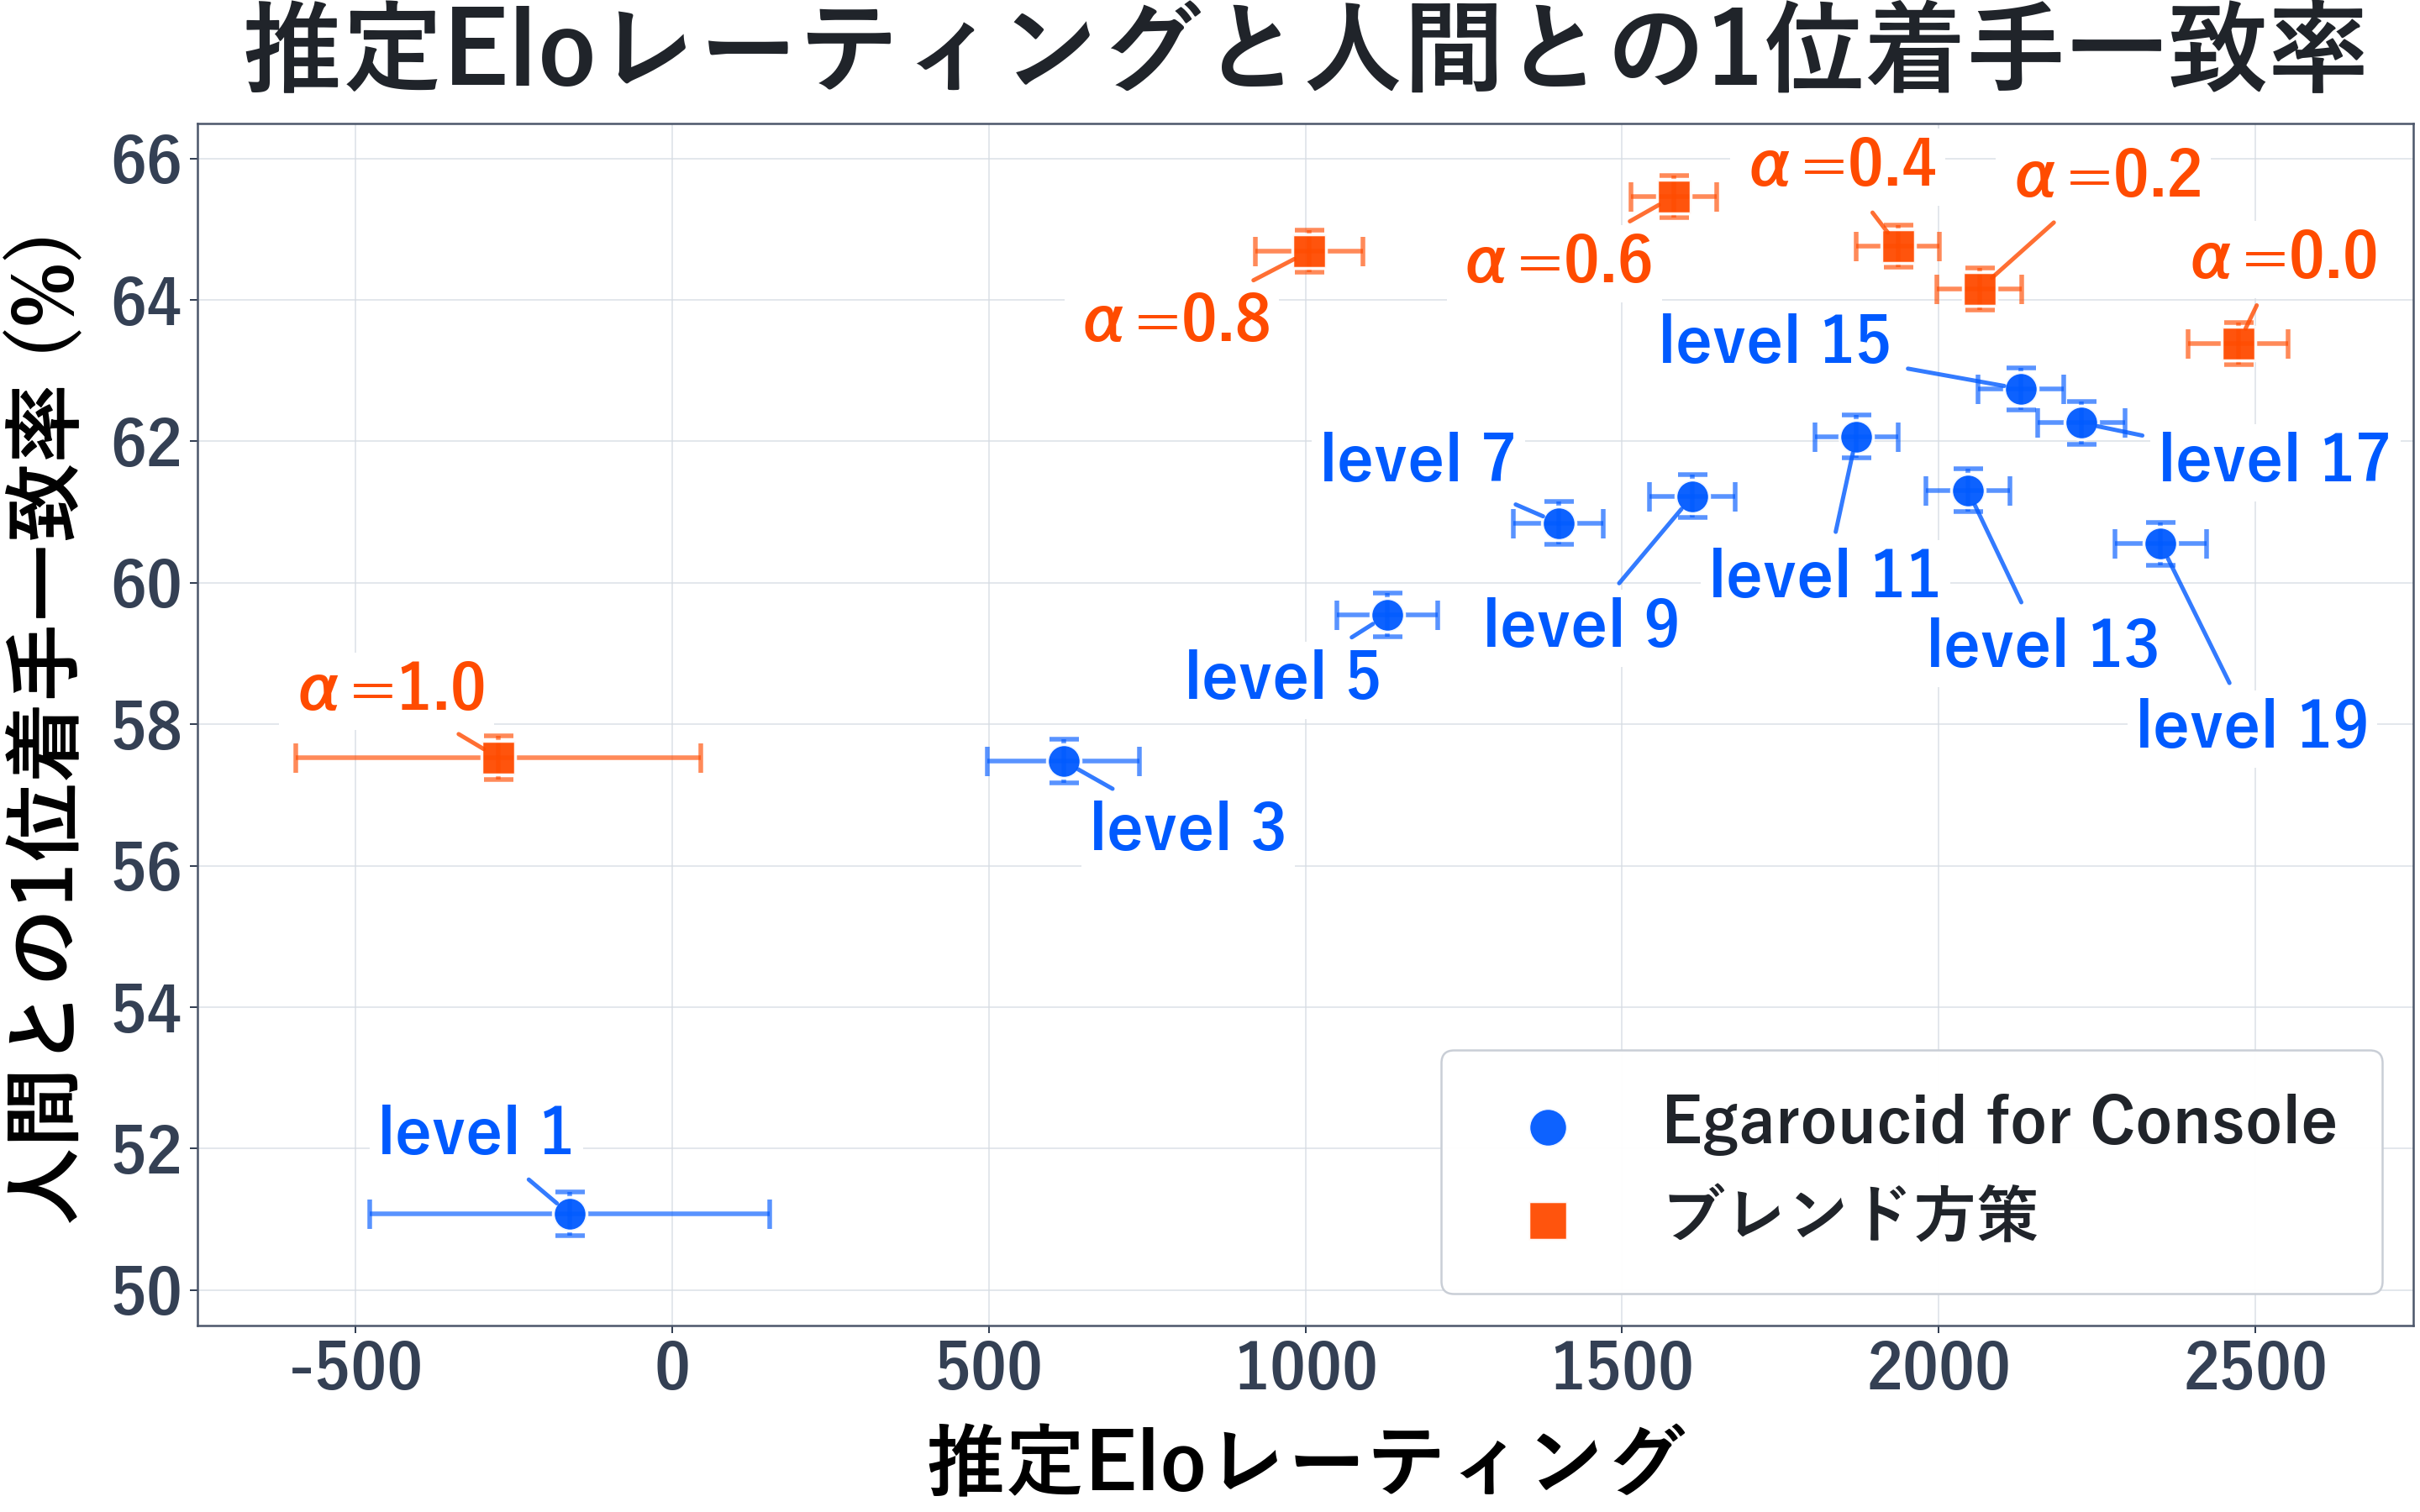
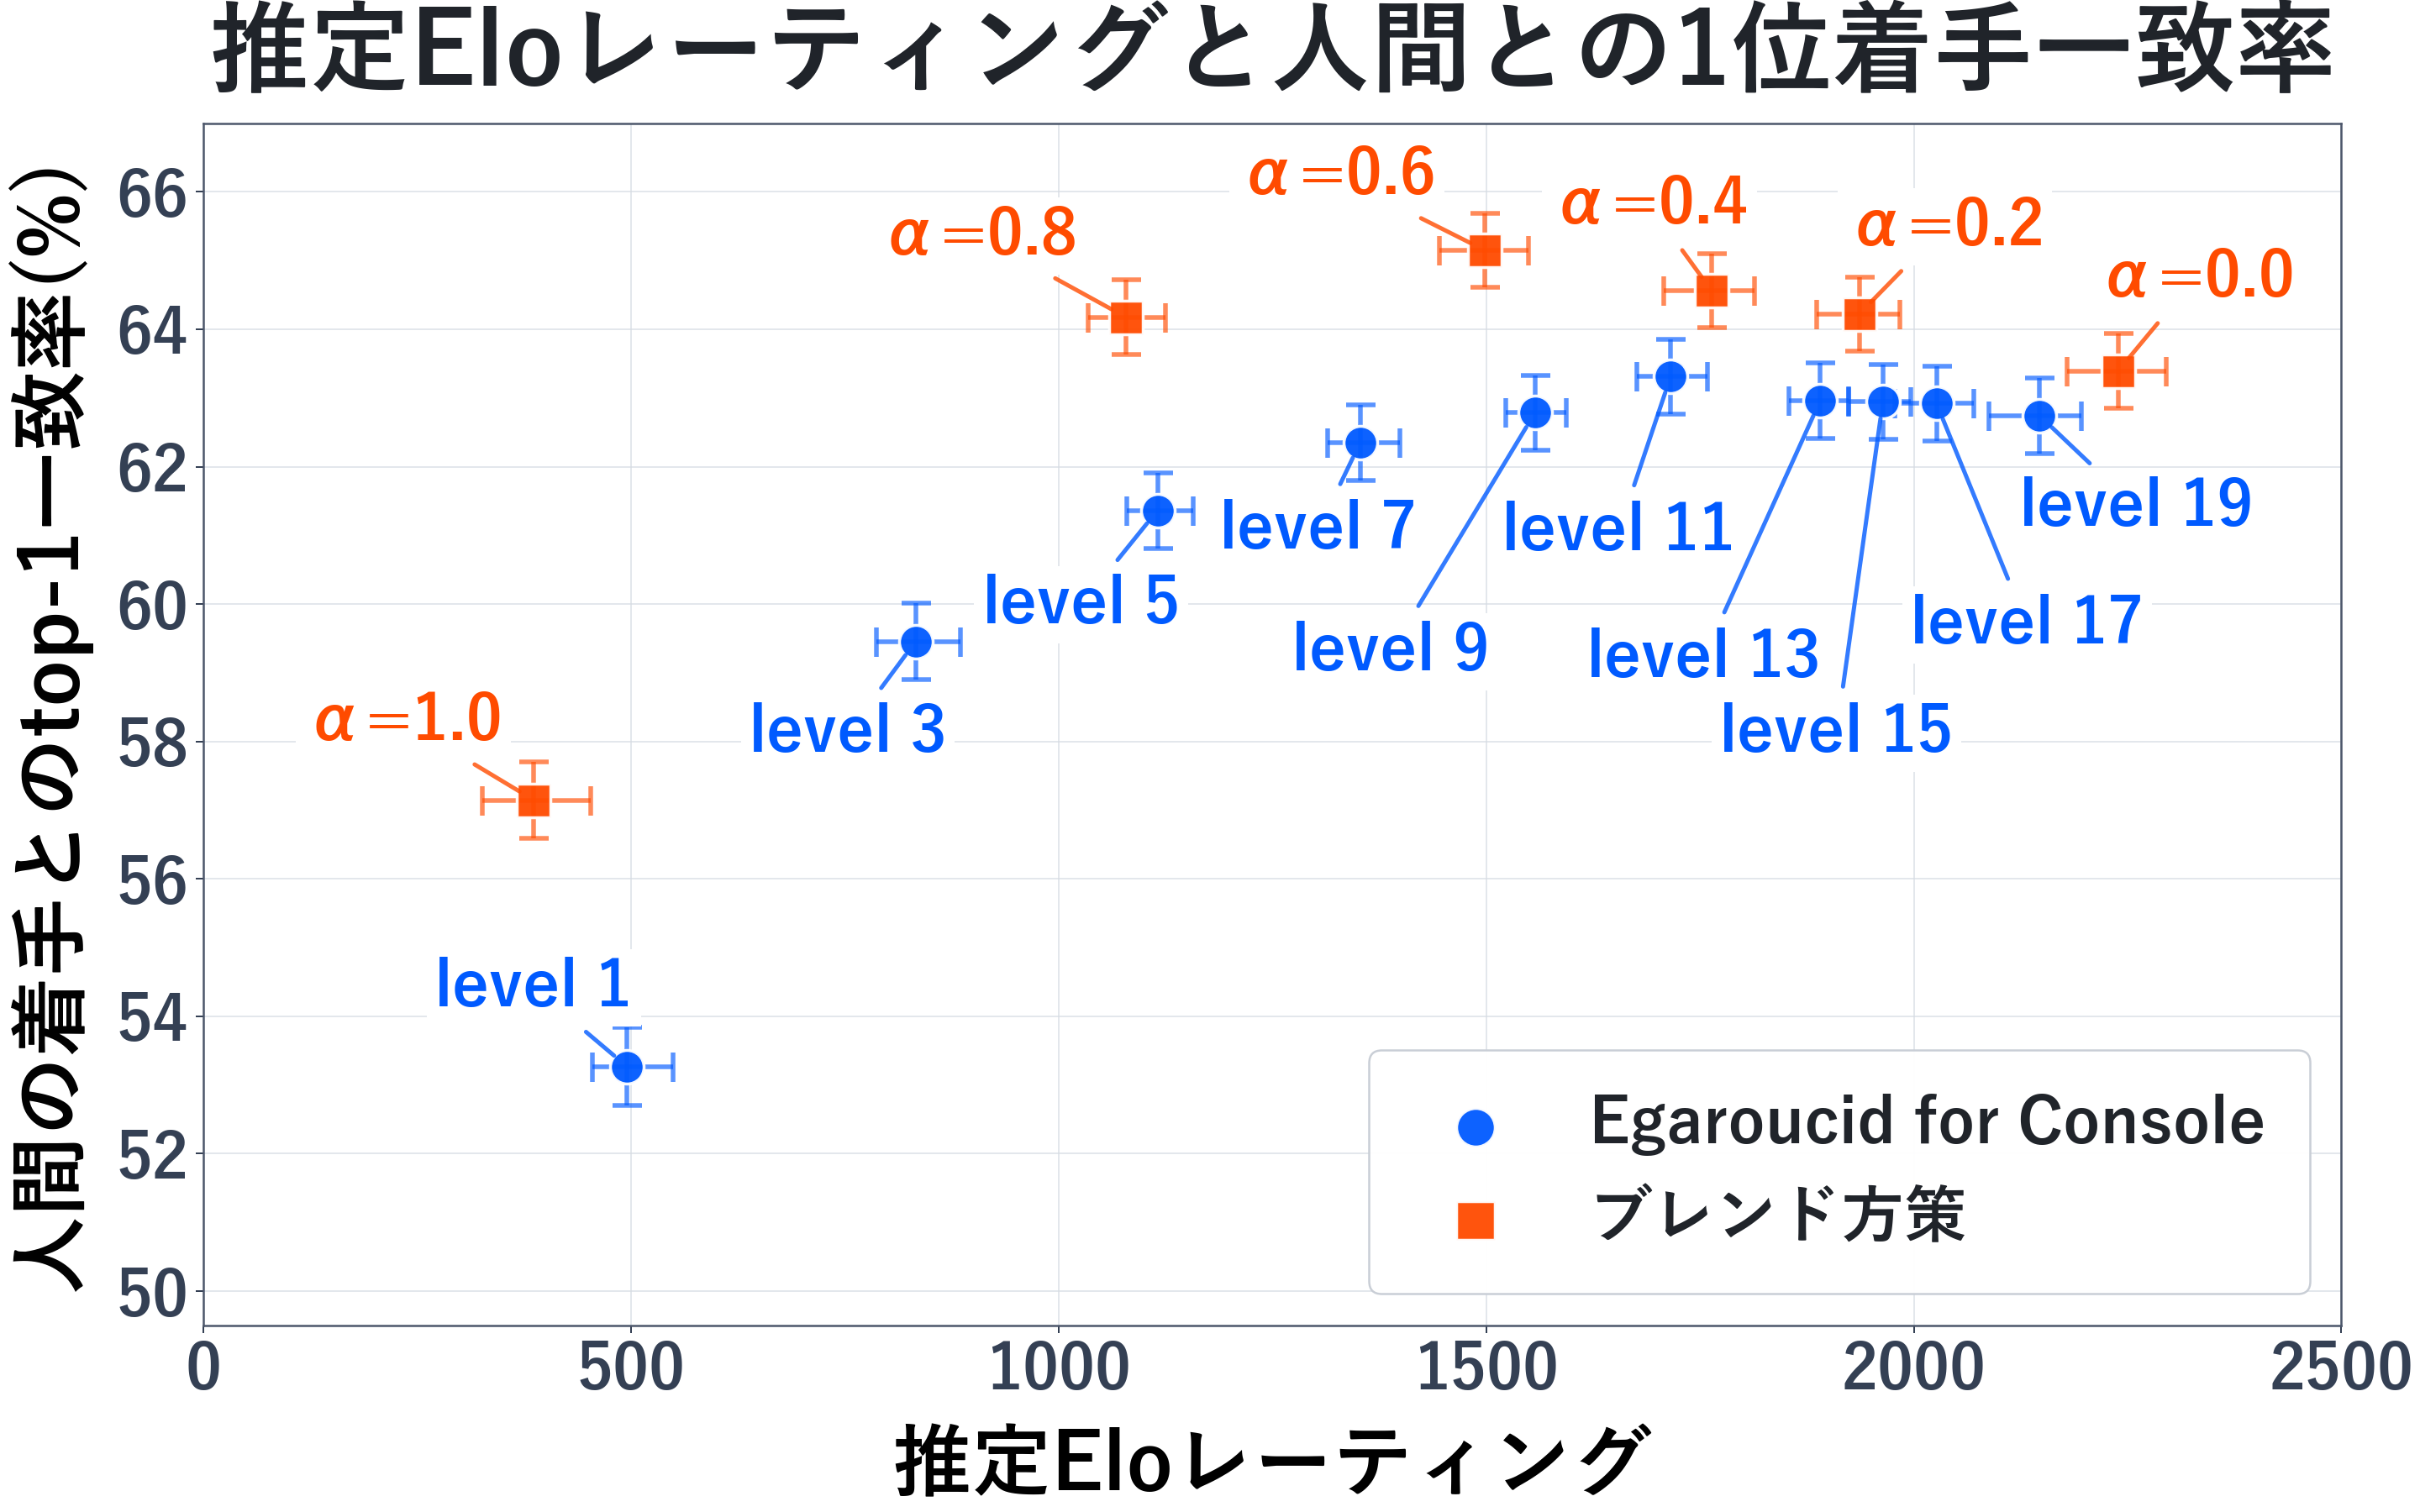
update graph #613

diff --git a/src/tools/policy_network_human_like_ai/50_rating_vs_human_match/test_plot_rating_vs_human_match.py b/src/tools/policy_network_human_like_ai/50_rating_vs_human_match/test_plot_rating_vs_human_match.py
@@ -52,17 +52,80 @@ class RatingHumanMatchPlotTest(unittest.TestCase):
         self.assertTrue(all(errorbar.has_yerr for errorbar in errorbars))
         plt.close(figure)
 
-    def test_ratings_are_reestimated_without_random_player(self) -> None:
+    def test_ratings_match_50_set_results(self) -> None:
         loaded_results = read_results(DEFAULT_INPUT)
         results = {result.label: result for result in loaded_results}
 
-        self.assertAlmostEqual(2472.958308, results["alpha=0.0"].rating)
-        self.assertAlmostEqual(78.640396, results["alpha=0.0"].rating_ci_half_width)
-        self.assertAlmostEqual(-274.883451, results["alpha=1.0"].rating)
-        self.assertAlmostEqual(320.277306, results["alpha=1.0"].rating_ci_half_width)
+        self.assertAlmostEqual(
+            2238.9648171704375,
+            results["alpha=0.0"].rating,
+        )
+        self.assertAlmostEqual(
+            2179.368198724032,
+            results["alpha=0.0"].rating_ci_lower,
+        )
+        self.assertAlmostEqual(
+            2294.994042320917,
+            results["alpha=0.0"].rating_ci_upper,
+        )
+        self.assertAlmostEqual(
+            386.58207142362244,
+            results["alpha=1.0"].rating,
+        )
+        self.assertAlmostEqual(
+            326.05871764385046,
+            results["alpha=1.0"].rating_ci_lower,
+        )
+        self.assertAlmostEqual(
+            453.2212892796188,
+            results["alpha=1.0"].rating_ci_upper,
+        )
         self.assertAlmostEqual(
             1500.0,
             sum(result.rating for result in loaded_results) / len(loaded_results),
+        )
+
+    def test_human_match_values_match_30000_position_results(self) -> None:
+        results = {
+            result.label: result
+            for result in read_results(DEFAULT_INPUT)
+        }
+        expected_top1 = {
+            "level 1": 53.27,
+            "level 3": 59.45333333333334,
+            "level 5": 61.36333333333334,
+            "level 7": 62.35,
+            "level 9": 62.78333333333334,
+            "level 11": 63.31,
+            "level 13": 62.96333333333334,
+            "level 15": 62.94333333333333,
+            "level 17": 62.92,
+            "level 19": 62.74,
+            "alpha=0.0": 63.39333333333333,
+            "alpha=0.2": 64.22,
+            "alpha=0.4": 64.56333333333333,
+            "alpha=0.6": 65.14666666666666,
+            "alpha=0.8": 64.17333333333334,
+            "alpha=1.0": 57.14666666666667,
+        }
+
+        for label, expected in expected_top1.items():
+            self.assertAlmostEqual(expected, results[label].top1)
+        self.assertAlmostEqual(
+            52.70503574571409,
+            results["level 1"].top1_ci_lower,
+        )
+        self.assertAlmostEqual(
+            53.83412692348205,
+            results["level 1"].top1_ci_upper,
+        )
+        self.assertAlmostEqual(
+            64.60555118634693,
+            results["alpha=0.6"].top1_ci_lower,
+        )
+        self.assertAlmostEqual(
+            65.68390362387456,
+            results["alpha=0.6"].top1_ci_upper,
         )
 
     def test_requested_series_colors(self) -> None:
@@ -127,11 +190,12 @@ class RatingHumanMatchPlotTest(unittest.TestCase):
         results = read_results(DEFAULT_INPUT)
         valid_labels = {result.label for result in results}
         positions = load_label_positions(DEFAULT_LABEL_POSITIONS, valid_labels)
+        positions["level 1"] = LabelPosition(12.0, 0.0, "left", "center")
+        positions["level 17"] = LabelPosition(36.0, 0.0, "left", "center")
         figure, annotations = create_plot(results, positions)
 
         self.assertFalse(annotations["level 1"].arrow_patch.get_visible())
         self.assertTrue(annotations["level 17"].arrow_patch.get_visible())
-        self.assertTrue(annotations["level 19"].arrow_patch.get_visible())
         self.assertGreater(
             abs(positions["level 17"].dx),
             LEADER_LINE_THRESHOLD_POINTS,

diff --git a/src/tools/policy_network_human_like_ai/50_rating_vs_human_match/plot_rating_vs_human_match.py b/src/tools/policy_network_human_like_ai/50_rating_vs_human_match/plot_rating_vs_human_match.py
@@ -39,7 +39,8 @@ class Result:
     series: str
     label: str
     rating: float
-    rating_ci_half_width: float
+    rating_ci_lower: float
+    rating_ci_upper: float
     top1: float
     top1_ci_lower: float
     top1_ci_upper: float
@@ -118,9 +119,8 @@ def read_results(path: Path) -> list[Result]:
                 series=row["系列"],
                 label=row["ラベル"],
                 rating=float(row["推定Elo"]),
-                rating_ci_half_width=float(
-                    row["推定Eloの95%信頼区間半幅"]
-                ),
+                rating_ci_lower=float(row["推定Eloの95%信頼区間下限"]),
+                rating_ci_upper=float(row["推定Eloの95%信頼区間上限"]),
                 top1=float(row["1位着手一致率"]),
                 top1_ci_lower=float(
                     row["1位着手一致率の95%信頼区間下限"]
@@ -131,9 +131,9 @@ def read_results(path: Path) -> list[Result]:
             )
             if result.series not in SERIES_STYLES:
                 raise ValueError(f"未知の系列です: {result.series}")
-            if result.rating_ci_half_width < 0.0:
+            if not result.rating_ci_lower <= result.rating <= result.rating_ci_upper:
                 raise ValueError(
-                    f"{result.label}のElo信頼区間半幅が負です"
+                    f"{result.label}のElo推定値が信頼区間外です"
                 )
             if not result.top1_ci_lower <= result.top1 <= result.top1_ci_upper:
                 raise ValueError(
@@ -213,7 +213,7 @@ def label_candidates() -> list[tuple[float, float]]:
         (12.0, -12.0),
         (-12.0, -12.0),
     ]
-    for distance in (20.0, 28.0, 38.0, 52.0, 70.0):
+    for distance in (20.0, 28.0, 38.0, 52.0, 70.0, 90.0, 115.0, 140.0):
         candidates.extend(
             [
                 (distance, 0.0),
@@ -443,7 +443,16 @@ def create_plot(
             ratings,
             top1_values,
             xerr=np.array(
-                [result.rating_ci_half_width for result in group],
+                [
+                    [
+                        result.rating - result.rating_ci_lower
+                        for result in group
+                    ],
+                    [
+                        result.rating_ci_upper - result.rating
+                        for result in group
+                    ],
+                ],
                 dtype=float,
             ),
             yerr=np.array(
@@ -492,25 +501,19 @@ def create_plot(
         weight="bold",
     )
     axis.set_ylabel(
-        "人間との1位着手一致率 (%)",
+        "人間の着手とのtop-1一致率(%)",
         fontsize=AXIS_LABEL_FONT_SIZE,
         labelpad=12,
         weight="bold",
     )
 
-    rating_lower = min(
-        result.rating - result.rating_ci_half_width
-        for result in results
-    )
-    rating_upper = max(
-        result.rating + result.rating_ci_half_width
-        for result in results
-    )
+    rating_lower = min(result.rating_ci_lower for result in results)
+    rating_upper = max(result.rating_ci_upper for result in results)
     rating_padding = max(100.0, (rating_upper - rating_lower) * 0.03)
     x_min = np.floor((rating_lower - rating_padding) / 250.0) * 250.0
     x_max = np.ceil((rating_upper + rating_padding) / 250.0) * 250.0
     axis.set_xlim(x_min, x_max)
-    axis.set_ylim(49.5, 66.5)
+    axis.set_ylim(49.5, 67.0)
     tick_min = np.ceil(x_min / 500.0) * 500.0
     tick_max = np.floor(x_max / 500.0) * 500.0
     axis.set_xticks(np.arange(tick_min, tick_max + 1.0, 500.0))

diff --git a/src/tools/policy_network_human_like_ai/50_rating_vs_human_match/RESULTS.md b/src/tools/policy_network_human_like_ai/50_rating_vs_human_match/RESULTS.md
@@ -2,67 +2,62 @@
 
 関連issue: #613
 
-更新日: 2026-07-20
-
-> **注意:** ブレンド系列の人間着手一致率は、Egaroucidへ`hint 3`を要求して作った不完全な方策に基づいている。
-> `α=0.0`から`α=0.8`までの5点と、それらを含む下図は、全合法手を使った100,000局面の再評価が完了するまで比較・結論に使用しない。
-> 強さから再推定したElo、Console単体の一致率、およびEgaroucid方策を使わない`α=1.0`の一致率は、この不具合の影響を受けない。
+更新日: 2026-07-21
 
 ![推定Eloレーティングと人間との1位着手一致率](rating_vs_human_top1.png)
 
 ## 図の定義
 
-- 横軸は、ランダム打ちを除外した総当たり戦の結果から再推定したEloレーティングである。横方向の線は推定Eloの95%信頼区間を表す。
-- 縦軸は、WTHORテストデータから無作為抽出した100,000局面における、人間との1位着手一致率である。縦方向の線は一致率の95%信頼区間を表す。
+- 横軸は、16参加者による50セット総当たり戦から推定したEloレーティングである。横方向の線は50 XOT局面をクラスタとするBCaブートストラップ95%信頼区間を表す。
+- 縦軸は、WTHORテストデータから無作為抽出した30,000局面における、人間との1位着手一致率である。縦方向の線は二項比率のWilson 95%信頼区間を表す。
 - RGB `(0, 90, 255)`の青い丸はEgaroucid for Console単体、RGB `(255, 75, 0)`の赤い四角はブレンド方策を表す。
 - 図全体、プロット領域、各点のラベル背景はRGB `(255, 255, 255)`の白である。PNG保存時も背景を透過しない。
 - タイトル、軸名、目盛り、凡例、各点のラベルは太字で表示する。点ラベルと目盛り・凡例は30ポイント、軸名は38ポイント、タイトルは48ポイントである。
 - ラベル位置は[`label_positions.json`](label_positions.json)に保存する。ラベルが点から18ポイントを超えて離れている場合は、対応するマーカーまで系列色の引き出し線を表示する。
 
-作図対象は、強さと人間との着手一致率の両方を測定した16モデルである。ランダム打ちはEloの再推定からも作図からも除外した。Egaroucid for Console level 21は総当たり戦へ参加していないため、図には含めていない。
+作図対象は、強さと人間との着手一致率の両方を測定した16モデルである。Egaroucid for Console level 21は人間着手一致率だけを測定し、総当たり戦へ参加していないため、図には含めていない。
 
-## 強さの再推定条件
+## 強さの測定条件
 
-元データは、17参加者で実施した過去の50セット総当たり戦である。各セットでは同じXOT局面から先後を入れ替えた2局を実施した。元データからランダム打ちが関係する全組み合わせを削除し、次の条件でEloを再推定した。
+元データは、16参加者で実施した50セット総当たり戦である。各セットでは同じXOT局面から先後を入れ替えた2局を実施した。
 
 | 項目 | 値 |
 | --- | ---: |
-| 再推定に使用した参加者数 | 16 |
+| 参加者数 | 16 |
 | 参加者の組み合わせ数 | 120 |
 | 1組当たりの対戦セット数 | 50 |
 | 対戦セット総数 | 6,000 |
 | 実対局総数 | 12,000 |
 
-推定には[`bin/elo_rating_backcal.py`](../../../../bin/elo_rating_backcal.py)の`fit_elo_from_winrates_with_interval`を使用した。実測勝率とElo式から得られる期待勝率の交差エントロピーを、対戦セット数で重み付けして最小化した。引き分けは0.5勝として実測勝率へ算入した。レーティングの絶対値には任意性があるため、16参加者の推定Eloの平均が1500になるように平行移動した。95%信頼区間は、最適化後のヘッセ行列から求めた共分散行列と正規近似を用いて計算した。
+Eloは各対戦済み組へ0.5勝・0.5敗を加えて有限化し、16参加者の平均が1500となるように推定した。95%信頼区間は、50個のset index、すなわちXOT局面をクラスタとして20,000回復元抽出するBCaクラスターブートストラップで求めた。各反復では同じ抽出列を全120組へ適用し、同じXOTを使った組間の相関を維持した。乱数生成器はNumPyのPCG64、seedは613である。詳細は[`../40_test_strength/RESULTS.md`](../40_test_strength/RESULTS.md)に記録している。
 
-## 再推定結果
+## Elo推定結果
 
 | 参加者 | 推定Elo | 95%信頼区間 |
 | --- | ---: | ---: |
-| Egaroucid level 1 | -162.1 | -478.0から153.9 |
-| Egaroucid level 3 | 617.7 | 497.7から737.6 |
-| Egaroucid level 5 | 1128.9 | 1049.1から1208.8 |
-| Egaroucid level 7 | 1399.5 | 1328.4から1470.5 |
-| Egaroucid level 9 | 1610.7 | 1543.1から1678.3 |
-| Egaroucid level 11 | 1870.0 | 1804.1から1935.8 |
-| Egaroucid level 13 | 2045.8 | 1979.4から2112.1 |
-| Egaroucid level 15 | 2129.5 | 2062.4から2196.7 |
-| Egaroucid level 17 | 2224.9 | 2156.1から2293.6 |
-| Egaroucid level 19 | 2350.2 | 2277.8から2422.6 |
-| α=0.0 | 2473.0 | 2394.3から2551.6 |
-| α=0.2 | 2064.0 | 1997.6から2130.5 |
-| α=0.4 | 1935.7 | 1869.8から2001.6 |
-| α=0.6 | 1581.3 | 1513.3から1649.2 |
-| α=0.8 | 1005.9 | 920.5から1091.3 |
-| α=1.0 | -274.9 | -595.2から45.4 |
+| Egaroucid level 1 | 495.3 | 454.7から549.0 |
+| Egaroucid level 3 | 832.7 | 787.2から885.7 |
+| Egaroucid level 5 | 1115.7 | 1079.6から1157.4 |
+| Egaroucid level 7 | 1352.6 | 1314.4から1398.8 |
+| Egaroucid level 9 | 1557.0 | 1522.8から1593.5 |
+| Egaroucid level 11 | 1715.6 | 1675.7から1759.0 |
+| Egaroucid level 13 | 1890.7 | 1853.9から1923.8 |
+| Egaroucid level 15 | 1963.8 | 1923.4から1996.3 |
+| Egaroucid level 17 | 2026.5 | 1978.3から2069.7 |
+| Egaroucid level 19 | 2147.2 | 2087.9から2196.0 |
+| α=0.0 | 2239.0 | 2179.4から2295.0 |
+| α=0.2 | 1936.1 | 1886.0から1983.6 |
+| α=0.4 | 1763.4 | 1707.1から1813.7 |
+| α=0.6 | 1498.8 | 1445.7から1549.7 |
+| α=0.8 | 1079.0 | 1034.9から1125.5 |
+| α=1.0 | 386.6 | 326.1から453.2 |
 
-表の表示値は小数第1位へ丸めた。作図用CSVには丸める前の値を保存している。この信頼区間は各参加者の推定Eloそのものに対する区間であり、2参加者間のElo差に対する信頼区間ではない。
+表の表示値は小数第1位へ丸めた。作図用CSVには丸める前の値を保存している。各区間は参加者ごとのpointwise 95%信頼区間であり、16参加者を同時に覆う区間でも、2参加者間のElo差に対する信頼区間でもない。
 
 ## 入力データ
 
 作図に使用した値は[`rating_vs_human_top1_data.csv`](rating_vs_human_top1_data.csv)に保存した。
-ブレンド系列の`α=0.0`から`α=0.8`は、再評価前の無効な旧値を履歴確認のため残している。
-新しい実験結果へ置き換えるまで作図データとして使用しない。
+Eloとその区間、および1位着手一致率とその区間は、各実験の丸め前の集計値を使用している。Console単体とブレンド方策の一致率は、同じ30,000局面で測定した。今回提示されたtop-3一致率は、このtop-1グラフには使用していない。
 
 - Egaroucid for Console: level 1、3、5、7、9、11、13、15、17、19
 - ブレンド方策: α=0.0、0.2、0.4、0.6、0.8、1.0